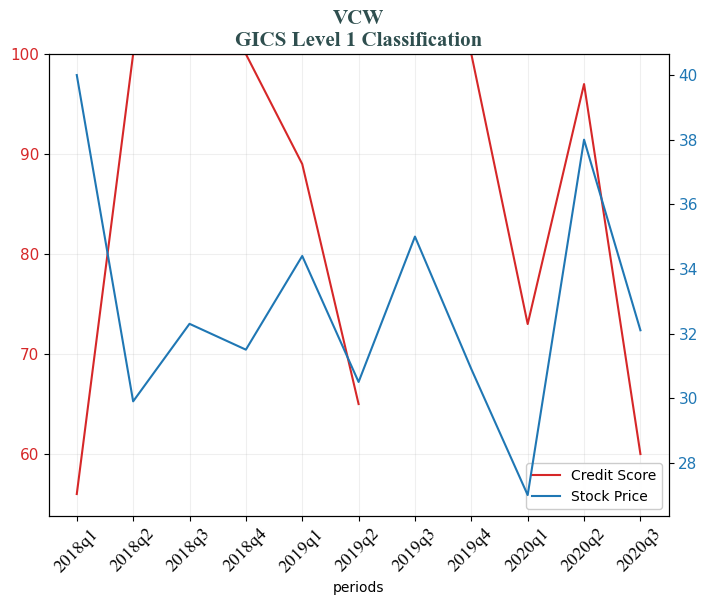
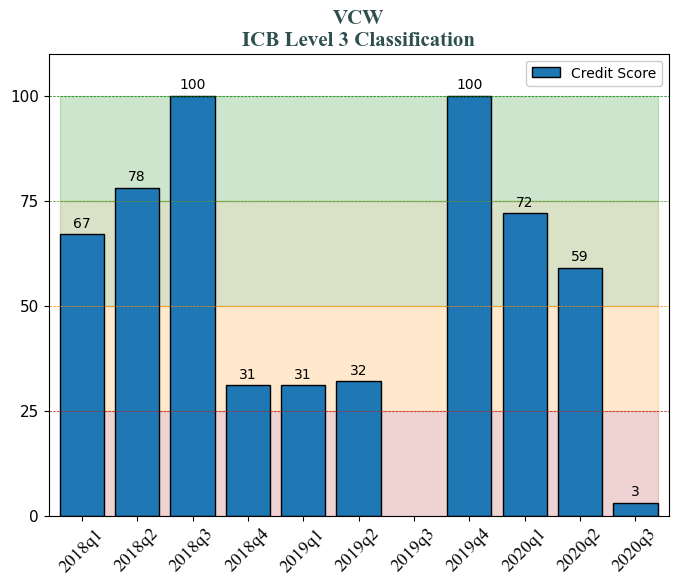
post_breakeven_price

diff --git a/credit_rating/pca_kmeans_interpolation(gen).py b/credit_rating/pca_kmeans_interpolation(gen).py
@@ -4,6 +4,7 @@ from scipy.stats import rankdata
 from scipy.interpolate import interp1d
 import matplotlib.pyplot as plt
 import matplotlib
+import matplotlib.ticker as mticker
 from os.path import dirname, realpath
 import itertools
 matplotlib.use('Agg')
@@ -301,7 +302,7 @@ for standard in standards:
                                  init='k-means++',
                                  n_init=100,
                                  max_iter=10000,
-                                 tol=1e-20,
+                                 tol=1e-9,
                                  random_state=1)\
                         .fit(df_xs.dropna(axis=0, how='any'))
 
@@ -476,135 +477,65 @@ for standard in standards:
 result_table = result_table.unstack(level=4)
 result_table.columns = result_table.columns.droplevel(0)
 
-def result(standard=str, level=int):
-    global result_table
-    result = result_table.xs(key=standard+'_l'+str(level), axis=0,
-                             level=1, drop_level=False)
-    return result
-
-
-"""
-returns = request_return('gen') #################### expensive
-returns.sort_index(inplace=True) # to improve performance
-
-change_result = pd.DataFrame(index=result_table.index,
-                             columns=result_table.columns)
-change_result.drop(columns=[result_table.columns[0]], inplace=True)
-for col in range(len(result_table.columns)-1):
-    change_result.iloc[:,col] \
-        = result_table.iloc[:,col+1] - result_table.iloc[:,col]
-
-hot_keys = pd.DataFrame(index=change_result.index,
-                        columns=change_result.columns)
-for standard, level, industry, ticker in change_result.index:
-    for period in change_result.columns:
-        if change_result.loc[(standard,level,industry,ticker),
-                             period] is None \
-            or change_result.loc[(standard,level,industry,ticker),
-                                 period] == np.nan \
-            or returns.loc[ticker,period] is None \
-                or returns.loc[ticker,period] == np.nan:
-            hot_keys.loc[(standard,level,industry,ticker),
-                         period] = np.nan
-        if change_result.loc[(standard,level,industry,ticker),
-                             period] \
-            * returns.loc[ticker,period] < 0:
-            hot_keys.loc[(standard,level,industry,ticker),
-                         period] = 0
-        if change_result.loc[(standard,level,industry,ticker),
-                             period] \
-            * returns.loc[ticker,period] >= 0:
-            hot_keys.loc[(standard,level,industry,ticker),
-                         period] = 1
-for financial_ in request_financial_ticker():
-    try:
-        hot_keys.drop(labels=financial_, axis=0, level=3, inplace=True)
-    except KeyError:
-        continue
-hot_keys.drop(labels='N/A', axis=0, level=2, inplace=True)
-
-def accuracy(standard=str, level=int):
-    global hot_keys
-    a = hot_keys.xs((standard,standard+'_l'+str(level))).sum().sum() \
-        / hot_keys.xs((standard,standard+'_l'+str(level))).count().sum()
-    return a
-
-tuples = list()
-for standard in standards:
-    for level in request_industry_level(standard):
-        tuples.append((standard,level))
-
-accuracy_table = pd.DataFrame(index=pd.MultiIndex.from_tuples(tuples),
-                              columns=['accuracy_rate'])
-for standard, level in accuracy_table.index:
-    accuracy_table.loc[(standard,level)] = accuracy(standard,int(level[-1]))
-
-
-price_table = request_price() #################### expensive
-"""
 
 def graph_ticker(standard=str, level=int, ticker=str):
     table = pd.DataFrame(index=['credit_score'],
-                                columns=periods)
+                         columns=periods)
 
     table.loc['credit_score', periods] \
         = result_table.xs(key=(standard, standard + '_l' + str(level)),
                           axis=0, level=[0,1])\
         .xs(key=ticker, axis=0, level=1).values
 
-    fig, ax1 = plt.subplots(nrows=1, ncols=1, figsize=(8,6))
-    ax1.set_title(ticker + '\n' + standard.upper()
-                  + ' Level {} Classification'.format(level),
-                  fontsize=15, fontweight='bold', color='darkslategrey',
-                  fontfamily='Times New Roman')
-    ax2 = ax1.twinx()
-    ax1.set_xticklabels(ax1.get_xticks(), rotation=45,
-                        fontfamily='Times New Roman', fontsize=13)
-    ax1.plot(periods, table.iloc[0], color='tab:red', label='Credit Score')
-    ax2.plot(periods, table.iloc[1], color='tab:blue', label='Stock Price')
-    ax1.plot(np.nan, color='tab:blue', label='Stock Price')
-    ax1.set_ylim(top=np.min([table.iloc[0].max()*1.2, 100]))
-    ax1.set_xlabel('periods')
-    ax1.tick_params(axis='y', labelcolor='tab:red', labelsize=11)
-    ax2.tick_params(axis='y', labelcolor='tab:blue', labelsize=11)
-    ax1.legend(loc='best', framealpha=5)
-    ax1.grid(alpha=0.2)
+    fig, ax = plt.subplots(nrows=1, ncols=1, figsize=(8,6))
+    ax.set_title(ticker + '\n' + standard.upper()
+                 + ' Level {} Classification'.format(level),
+                 fontsize=15, fontweight='bold', color='darkslategrey',
+                 fontfamily='Times New Roman')
+    ax.set_ylim(top=110)
+
+    xloc = np.arange(table.shape[1]) # label locations
+    rects = ax.bar(xloc, table.iloc[0], width=0.8,
+                   color='tab:blue', label='Credit Score', edgecolor='black')
+    for rect in rects:
+        height = rect.get_height()
+        ax.annotate('{:.0f}'.format(height),
+                    xy=(rect.get_x()+rect.get_width()/2, height),
+                    xytext=(0,3),  # 3 points vertical offset
+                    textcoords="offset points",
+                    ha='center', va='bottom')
+
+    ax.set_xticks(np.arange(len(xloc)))
+    ax.set_xticklabels(table.columns.tolist(), rotation=45, x=xloc,
+                       fontfamily='Times New Roman', fontsize=13)
+
+    ax.set_yticks(np.array([0,25,50,75,100]))
+    ax.tick_params(axis='y', labelcolor='black', labelsize=11)
+
+    Acolor = 'green'
+    Bcolor = 'olivedrab'
+    Ccolor = 'darkorange'
+    Dcolor = 'firebrick'
+
+    ax.axhline(100, ls='--', linewidth=0.5, color=Acolor)
+    ax.axhline(75, ls='--', linewidth=0.5, color=Bcolor)
+    ax.axhline(50, ls='--', linewidth=0.5, color=Ccolor)
+    ax.axhline(25, ls='--', linewidth=0.5, color=Dcolor)
+    ax.fill_between([-0.4,xloc[-1]+0.4], 100, 75,
+                    color=Acolor, alpha=0.2)
+    ax.fill_between([-0.4,xloc[-1]+0.4], 75, 50,
+                    color=Bcolor, alpha=0.25)
+    ax.fill_between([-0.4,xloc[-1]+0.4], 50, 25,
+                    color=Ccolor, alpha=0.2)
+    ax.fill_between([-0.4,xloc[-1]+0.4], 25, 0,
+                    color=Dcolor, alpha=0.2)
+
+    plt.xlim(-0.6, xloc[-1] + 0.6)
+    ax.legend(loc='best', framealpha=5)
+    ax.margins(tight=True)
     plt.savefig(join(destination_dir, f'{ticker}_result.png'),
                 bbox_inches='tight')
 
-"""
-def graph_classification(standard=str):
-    global accuracy_table
-    fig, ax = plt.subplots(nrows=1, ncols=1, figsize=(6, 5))
-    ind = np.arange(
-        len(accuracy_table.xs(key=standard, axis=0, level=0).index))
-    score = accuracy_table.xs(key=standard, axis=0, level=0).values.T[0]
-    ax.bar(ind, score, 0.5, color='tab:blue', edgecolor='black')
-    level = accuracy_table.xs(key=standard,
-                                      axis=0, level=0).index.tolist()
-    for i in range(len(level)):
-        level[i] = 'Level ' + level[i][-1]
-    plt.xticks(ind, level)
-    plt.yticks(np.arange(0.5, 0.61, 0.01))
-    ax.set_ylim(bottom=0.5)
-    plt.xticks(fontfamily='Times New Roman', fontsize=13)
-    plt.yticks(fontfamily='Times New Roman', fontsize=13)
-
-    rects = ax.patches
-
-    for rect, sc in zip(rects, score):
-        height = rect.get_height()
-        ax.text(rect.get_x()+rect.get_width()/2, height+0.001, np.round(sc,3),
-                ha='center', va='bottom',
-                fontfamily='Times New Roman', fontsize=13)
-
-    standard = standard.upper()
-    plt.title('Accuracy rate of {} by level'.format(standard),
-              fontfamily='Times New Roman', fontsize=15, fontweight='bold',
-              color='midnightblue')
-    plt.savefig(join(destination_dir, f'classification_{standard}_result.png'),
-                bbox_inches='tight')
-"""
 
 def graph_crash(benchmark=float, segment=str, period=str):
     crash_list = request_crash(benchmark, segment, period)
@@ -617,18 +548,9 @@ def graph_crash(benchmark=float, segment=str, period=str):
                 bbox_inches='tight')
 
 
-# Report results
+# Output results
 result_table.to_csv(join(destination_dir, f'result_table(3centroids).csv'))
-price_table.to_csv(join(destination_dir, f'price_table(3centroids).csv'))
-
 graph_crash(-0.5, 'gen', '2020q3')
-
-for standard in standards:
-    try:
-        graph_classification(standard)
-    except KeyError:
-        pass
-
 for ticker in tickers:
     try:
         graph_ticker('gics', 1, ticker)
